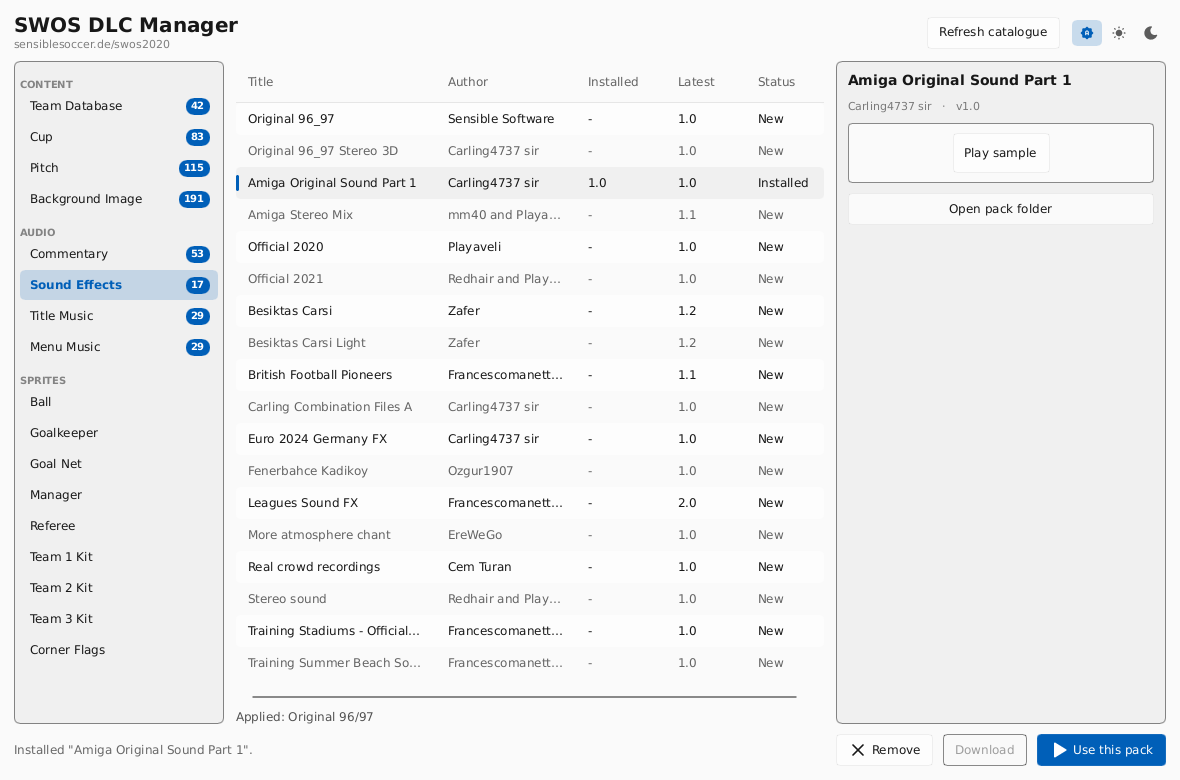
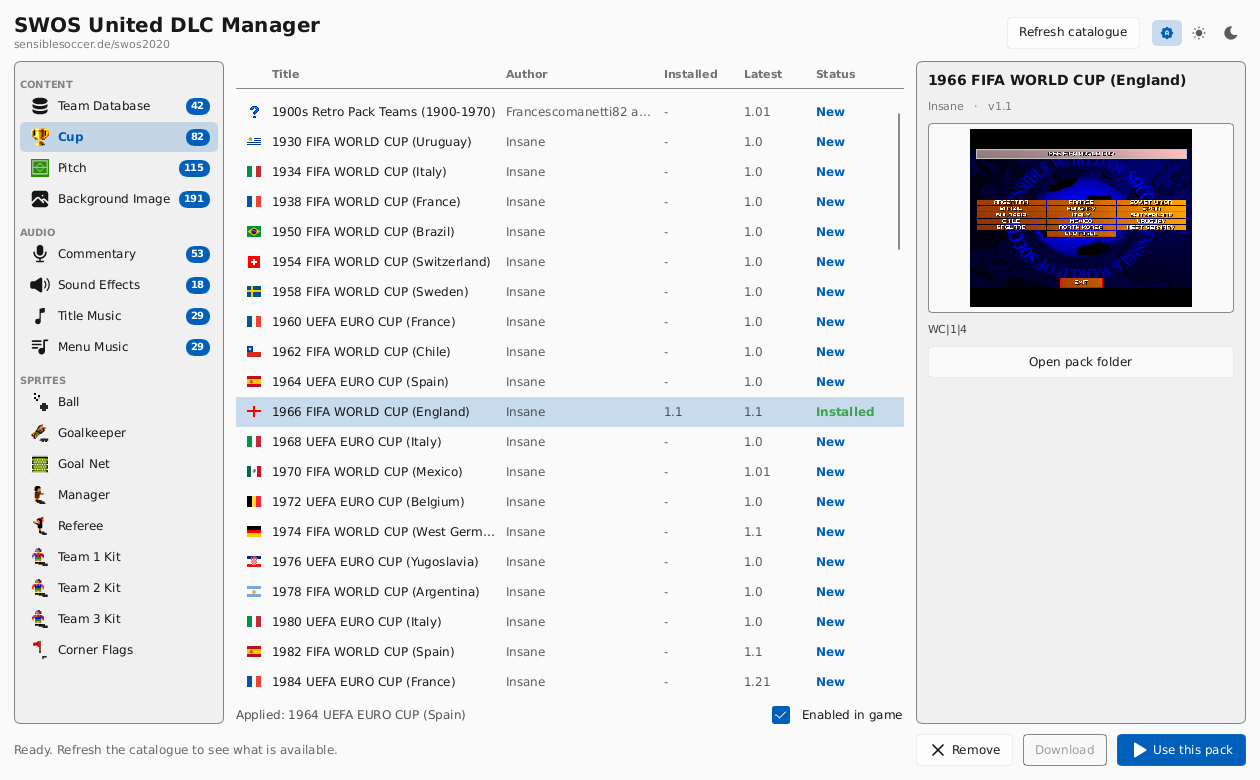
Refresh the README screenshots, and fetch pack preview artwork
Both shots were stale: the launcher still carried its pre-rename title, and the
DLC manager predated the category icons and the list flags. Replaced, plus a
dark-mode shot since the theme follows the desktop.

Taking them turned up a missing feature. The detail pane had nowhere to get an
image from, because the preview artwork is not in the pack -- it is a second
archive beside it, "<name>_preview.7z", which the Delphi build fetched with a
separate downloadDLC('_preview') call and this port never did. So the pane said
"no preview image in this pack" for every pack, permanently.

InstallJob now runs four legs rather than two: download, extract, then download
and extract the preview. The preview leg is best-effort -- not every pack has
one, and a failure there leaves the pack installed and reports nothing.

No path changes were needed: the archives hold exactly what preview_image_path
already looked for (preview/pitchN.bmp for a pitch, <name>.png for a cup),
confirmed by listing both before writing any code.

Also adds SWOS_DLC_ROW=<n>, which highlights a row without installing it, so the
detail pane can be captured on its own.

Claude-Session: https://claude.ai/code/session_01UKv4KZtUvxtqvsXMJBLxGR

diff --git a/apps/dlc_manager/main.cpp b/apps/dlc_manager/main.cpp
@@ -177,13 +177,19 @@ std::string preview_audio_path(const swos::DlcCatalog &catalog, const swos::DlcE
     return {};
 }
 
-// A background job: download then extract. Both legs are slow and neither may
-// run on the UI thread, but they have to report progress to it.
+// A background job: download and extract a pack, then do the same for its
+// preview archive. All four legs are slow and none may run on the UI thread,
+// but they have to report progress to it.
+//
+// The preview is a second archive alongside the pack -- "<name>_preview.7z" --
+// holding the artwork the detail pane shows: preview/pitchN.bmp for a pitch,
+// <name>.png for a cup. Not every pack has one, so a failure there is not a
+// failure of the install.
 class InstallJob {
 public:
-    enum class Stage { Idle, Downloading, Extracting, Done };
+    enum class Stage { Idle, Downloading, Extracting, PreviewDownloading, PreviewExtracting, Done };
 
-    bool active() const { return m_stage == Stage::Downloading || m_stage == Stage::Extracting; }
+    bool active() const { return m_stage != Stage::Idle && m_stage != Stage::Done; }
     Stage stage() const { return m_stage; }
 
     void start(swos::DlcCatalog &catalog, const swos::DlcEntry &entry)
@@ -191,11 +197,12 @@ public:
         m_title = entry.title;
         m_archive = catalog.package_path(entry, false);
         m_destination = catalog.install_dir(entry);
-        m_url = catalog.package_url(entry, false);
+        m_preview_archive = catalog.package_path(entry, true);
+        m_preview_url = catalog.package_url(entry, true);
         m_error.clear();
         m_cancel.store(false);
         m_stage = Stage::Downloading;
-        m_download.start(m_url, m_archive);
+        m_download.start(catalog.package_url(entry, false), m_archive);
     }
 
     void cancel()
@@ -207,38 +214,60 @@ public:
     // Drives the job forward; call once per frame from the UI thread.
     void poll()
     {
-        if (m_stage == Stage::Downloading) {
+        switch (m_stage) {
+        case Stage::Downloading: {
             if (!m_download.finished()) return;
-
             const swos::DownloadResult result = m_download.take_result();
             if (!result.ok) {
                 m_error = result.error.empty() ? "Download failed" : result.error;
                 m_stage = Stage::Done;
                 return;
             }
-            // Extraction is CPU-bound and can take seconds on a big sprite
-            // pack, so it gets its own thread rather than stalling the frame.
-            m_stage = Stage::Extracting;
-            m_extract_done.store(false);
-            m_extract_thread = std::thread([this] {
-                const swos::ExtractResult result =
-                        swos::extract_archive(m_archive, m_destination, {}, &m_cancel);
-                if (!result.ok) m_error = result.error;
-                m_extract_done.store(true);
-            });
+            begin_extract(m_archive, m_destination, Stage::Extracting);
             return;
         }
 
-        if (m_stage == Stage::Extracting && m_extract_done.load()) {
-            if (m_extract_thread.joinable()) m_extract_thread.join();
+        case Stage::Extracting: {
+            if (!m_extract_done.load()) return;
+            join_extract();
+            if (!m_error.empty()) {           // a bad pack is a real failure
+                m_stage = Stage::Done;
+                return;
+            }
+            // The preview is optional, so its download failing is silent.
+            m_stage = Stage::PreviewDownloading;
+            m_download.start(m_preview_url, m_preview_archive);
+            return;
+        }
+
+        case Stage::PreviewDownloading: {
+            if (!m_download.finished()) return;
+            const swos::DownloadResult result = m_download.take_result();
+            if (!result.ok) {
+                m_stage = Stage::Done;        // no preview published; that is fine
+                return;
+            }
+            begin_extract(m_preview_archive, m_destination, Stage::PreviewExtracting);
+            return;
+        }
+
+        case Stage::PreviewExtracting: {
+            if (!m_extract_done.load()) return;
+            join_extract();
+            // Whatever went wrong here, the pack itself is installed.
+            m_error.clear();
             m_stage = Stage::Done;
+            return;
+        }
+
+        default: return;
         }
     }
 
     // Fraction for the progress bar, or -1 when it cannot be known.
     float fraction() const
     {
-        if (m_stage != Stage::Downloading) return -1.0f;
+        if (m_stage != Stage::Downloading && m_stage != Stage::PreviewDownloading) return -1.0f;
         const swos::DownloadProgress progress = m_download.progress();
         return progress.bytes_total > 0 ? progress.fraction() : -1.0f;
     }
@@ -258,7 +287,9 @@ public:
             }
             return "Downloading " + m_title;
         }
-        case Stage::Extracting: return "Extracting " + m_title;
+        case Stage::Extracting:         return "Extracting " + m_title;
+        case Stage::PreviewDownloading: return "Fetching preview for " + m_title;
+        case Stage::PreviewExtracting:  return "Extracting preview for " + m_title;
         default: return {};
         }
     }
@@ -274,8 +305,29 @@ public:
     }
 
 private:
+    // Extraction is CPU-bound and can take seconds on a big sprite pack, so it
+    // gets its own thread rather than stalling the frame.
+    void begin_extract(std::string archive, std::string destination, Stage next)
+    {
+        m_stage = next;
+        m_extract_done.store(false);
+        m_extract_thread = std::thread([this, archive = std::move(archive),
+                                        destination = std::move(destination)] {
+            const swos::ExtractResult result =
+                    swos::extract_archive(archive, destination, {}, &m_cancel);
+            if (!result.ok) m_error = result.error;
+            m_extract_done.store(true);
+        });
+    }
+
+    void join_extract()
+    {
+        if (m_extract_thread.joinable()) m_extract_thread.join();
+    }
+
     Stage m_stage = Stage::Idle;
-    std::string m_title, m_archive, m_destination, m_url, m_error;
+    std::string m_title, m_archive, m_destination, m_error;
+    std::string m_preview_archive, m_preview_url;
     swos::Download m_download;
     std::thread m_extract_thread;
     std::atomic<bool> m_extract_done{false};
@@ -589,6 +641,14 @@ int main(int argc, char *argv[])
     // SWOS_DLC_REFRESH=1 fetches every catalogue at startup, so the download
     // path can be exercised headlessly alongside the screenshot hook.
     if (SDL_getenv("SWOS_DLC_REFRESH")) actions.invoke_refresh_catalog();
+    // SWOS_DLC_ROW=<row> just highlights a row, so the detail pane can be
+    // captured without installing anything.
+    if (const char *row = SDL_getenv("SWOS_DLC_ROW")) {
+        const int index = std::atoi(row);
+        model.set_current_row(index);
+        current_row = index;
+        refresh_detail();
+    }
     // SWOS_DLC_DOWNLOAD=<row> installs one pack, so the download + extract +
     // mark-installed path can be exercised headlessly.
     if (const char *row = SDL_getenv("SWOS_DLC_DOWNLOAD")) {

diff --git a/README.md b/README.md
@@ -13,7 +13,7 @@ Linux, and is intended to fold into
 Both share `swos-core` and the same `ini/gameLauncher.ini`, so a pack selected
 in the manager is the pack the launcher applies.
 
-![General tab](docs/images/general-light.png)
+![SWOS United Launcher](docs/images/launcher.png)
 
 ## The launcher
 
@@ -30,14 +30,20 @@ in the manager is the pack the launcher applies.
 
 ## The DLC manager
 
-![DLC manager](docs/images/dlc-manager.png)
+![SWOS United DLC Manager](docs/images/dlc-manager.png)
+
+<sub>Light and dark follow the desktop by default.</sub>
+
+![SWOS United DLC Manager in dark mode](docs/images/dlc-manager-dark.png)
 
 * Fetches all 17 DLC catalogues from `sensiblesoccer.de/swos2020`, merging them
   with what is installed to mark each pack New / Update / Installed / Removed.
 * Downloads and extracts `.7z` packs in-process (libcurl + libarchive), on a
   worker thread so the UI keeps painting, with progress and cancel.
 * Image previews for pitches, cups, sprites and backgrounds; audio previews for
-  commentary, sound effects and music.
+  commentary, sound effects and music. The artwork comes from the pack's own
+  `_preview` archive, fetched alongside it.
+* Country flags in the Commentary and Cup lists, from the original's own icons.
 * Records the selection the launcher then applies.
 
 See [docs/PORTING.md](docs/PORTING.md) for what is not ported yet — chiefly

diff --git a/docs/PORTING.md b/docs/PORTING.md
@@ -74,6 +74,8 @@ they look like bugs but are what the game expects:
 | `addServerVersions` (status merge) | `DlcCatalog::merge` |
 | `download` (Indy / WinINet / `TDownloadURL`) | `core/src/http.cpp` (libcurl) |
 | `downloadDLC` shelling out to `temp/7z.exe` | `core/src/archive_extract.cpp` (libarchive) |
+| `downloadDLC('_preview')` | the preview leg of `InstallJob` |
+| `lvw*CustomDrawItem` `ImageIndex` chains | `swos::dlc_flag_index` |
 | `loadCurrentFromIni` / `saveCurrentToIni` | `DlcCatalog::load_selection` / `save_selection` |
 | `preview_audio_commentary_u` / `preview_audio_fx_u` (MCI) | `apps/dlc_manager/audio_preview.cpp` (SDL2_mixer) |
 | 17 near-identical tabs | one list/preview layout, type chosen in a sidebar |

diff --git a/docs/ARCHITECTURE.md b/docs/ARCHITECTURE.md
@@ -141,6 +141,7 @@ so the UI can be smoke-tested where the window manager cannot be screenshotted
 | `SWOS_LAUNCHER_SCREENSHOT=<file>` | write the settled frame to a BMP, then exit |
 | `SWOS_DLC_CATEGORY=<n>` | DLC manager: open category *n* |
 | `SWOS_DLC_REFRESH=1` | DLC manager: fetch every catalogue at startup |
+| `SWOS_DLC_ROW=<row>` | DLC manager: highlight row *row* |
 | `SWOS_DLC_DOWNLOAD=<row>` | DLC manager: install the pack in row *row* |
 | `SWOS_DLC_REMOVE=<row>` | DLC manager: uninstall the pack in row *row* |
 | `SWOS_DLC_SCREENSHOT=<file>` | DLC manager: capture once idle, then exit |
